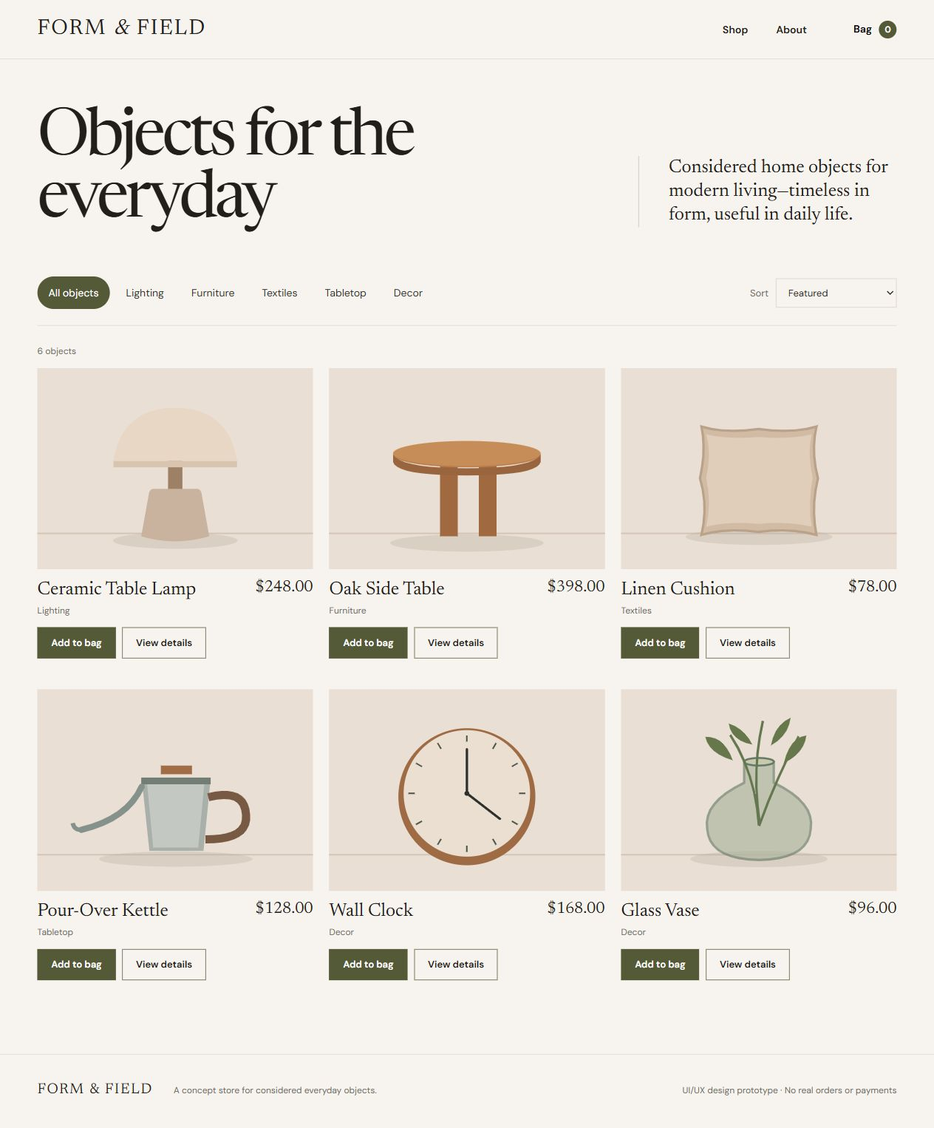
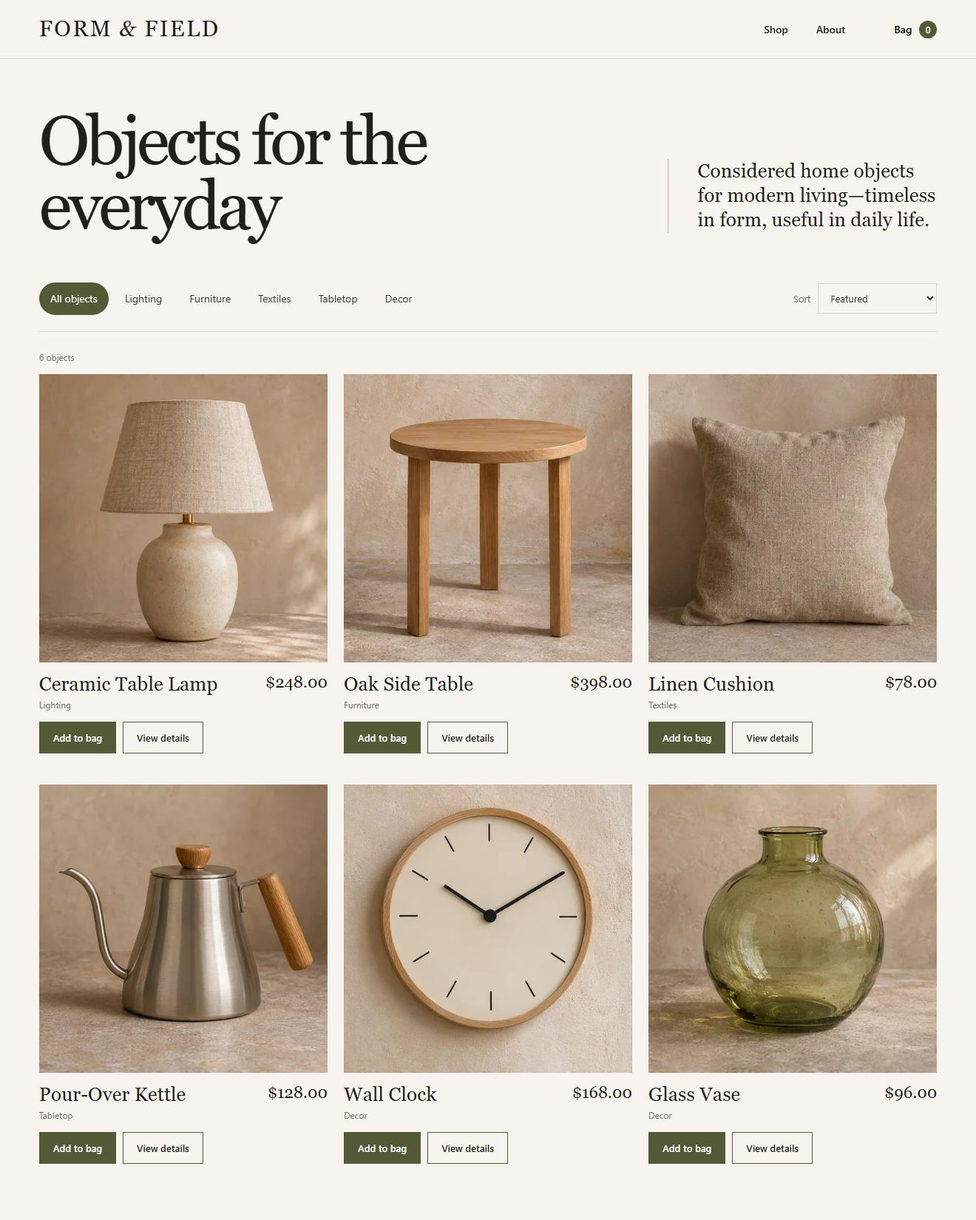
Show photo-style product imagery across the storefront

diff --git a/task-05-ecommerce-app/styles.css b/task-05-ecommerce-app/styles.css
@@ -1,4 +1,4 @@
-:root{font-family:'DM Sans',system-ui,sans-serif;color:#201f1b;background:#f7f4ef;--olive:#555a36;--line:#d8d1c7;--muted:#6c6a63;--serif:'Newsreader',Georgia,serif}*{box-sizing:border-box}html{scroll-behavior:smooth}body{margin:0}button,input,select{font:inherit}button{cursor:pointer}a{color:inherit;text-decoration:none}a:hover{text-decoration:underline;text-underline-offset:4px}button:focus-visible,a:focus-visible,input:focus-visible,select:focus-visible{outline:3px solid #a55e3f;outline-offset:3px}.skip,.sr-only{position:absolute;width:1px;height:1px;overflow:hidden;clip:rect(0 0 0 0)}.skip:focus{clip:auto;width:auto;height:auto;z-index:20;background:#fff;padding:12px}.site-header{height:80px;padding:0 clamp(20px,4vw,72px);border-bottom:1px solid var(--line);display:flex;align-items:center;gap:clamp(24px,5vw,80px)}.brand{font-family:var(--serif);font-size:clamp(22px,2.3vw,33px);letter-spacing:.075em;white-space:nowrap;line-height:1}.brand span{font-style:italic}.site-header nav{display:flex;gap:38px;margin-left:auto}.site-header nav a,.bag-link{font-size:14px;font-weight:600}.bag-link{border:0;background:none;padding:10px 0;white-space:nowrap}.bag-link span{display:inline-grid;place-items:center;background:var(--olive);color:#fff;border-radius:50%;width:24px;height:24px;margin-left:6px;font-size:12px}.container{max-width:1560px;margin:auto;padding:0 clamp(20px,4vw,72px)}.hero{display:grid;grid-template-columns:1.35fr .65fr;align-items:end;gap:7vw;padding-top:66px;padding-bottom:60px}.hero h1{font:400 clamp(52px,7vw,112px)/.95 var(--serif);letter-spacing:-.055em;margin:0;max-width:900px}.hero p{font:400 clamp(19px,2vw,27px)/1.26 var(--serif);margin:0 0 7px;border-left:1px solid #bdb4a8;padding-left:40px;max-width:410px}.toolbar{display:flex;align-items:center;justify-content:space-between;gap:20px;border-bottom:1px solid var(--line);padding-bottom:22px;margin-bottom:26px}.filters{display:flex;gap:7px;flex-wrap:wrap}.filter{border:0;background:transparent;color:#33312b;padding:10px 15px;border-radius:40px;font-size:14px}.filter[aria-pressed=true]{background:var(--olive);color:white}.sort{display:flex;align-items:center;gap:10px;font-size:13px;color:var(--muted);white-space:nowrap}.sort select{background:transparent;border:1px solid var(--line);padding:10px 28px 10px 12px;color:#292820}.results{font-size:12px;color:var(--muted);margin:0 0 15px}.grid{display:grid;grid-template-columns:repeat(3,minmax(0,1fr));gap:42px 22px;padding-bottom:100px}.product-visual{aspect-ratio:1.37;background:#e9e0d6;display:grid;place-items:center;overflow:hidden;position:relative}.product-visual svg{width:100%;height:100%;display:block}.product-meta{display:grid;grid-template-columns:1fr auto;gap:2px 12px;padding-top:14px}.product-meta h2{font:400 clamp(20px,2vw,27px)/1.14 var(--serif);margin:0}.product-meta p{grid-column:1;margin:3px 0 0;color:var(--muted);font-size:12px}.price{font:400 22px var(--serif);white-space:nowrap}.product-actions{display:flex;gap:9px;margin-top:15px}.text-button,.solid-button,.outline-button{border:1px solid var(--olive);padding:12px 18px;font-size:13px;font-weight:600;transition:background .2s,color .2s,transform .2s}.text-button{background:transparent}.solid-button{background:var(--olive);color:white}.outline-button{background:transparent;color:var(--olive)}.solid-button:hover,.outline-button:hover,.text-button:hover{transform:translateY(-2px)}.text-button:hover,.outline-button:hover{background:#e8e8dd}.solid-button:hover{background:#363c23}.breadcrumb{display:flex;gap:10px;color:var(--muted);font-size:13px;margin:30px 0}.breadcrumb a{text-decoration:underline;text-underline-offset:3px}.detail{display:grid;grid-template-columns:minmax(0,1.15fr) minmax(310px,.85fr);gap:clamp(30px,7vw,110px);align-items:center;padding-bottom:100px}.detail .product-visual{aspect-ratio:1}.detail-copy{max-width:500px}.eyeline{font-size:12px;letter-spacing:.15em;text-transform:uppercase;color:var(--muted)}.detail h1,.page-title{font:400 clamp(44px,5.4vw,82px)/1 var(--serif);letter-spacing:-.045em;margin:18px 0}.detail-price{font:400 32px var(--serif);margin:0 0 34px}.detail-description{font-size:16px;line-height:1.7;color:#55534d;margin-bottom:34px}.specs{border-top:1px solid var(--line);border-bottom:1px solid var(--line);padding:16px 0;margin-bottom:30px;font-size:13px;line-height:1.8}.specs strong{display:inline-block;width:85px}.detail .solid-button{width:100%;padding:17px}.minor{font-size:12px;color:var(--muted);line-height:1.6}.page{max-width:1100px;margin:0 auto;padding:32px clamp(20px,4vw,72px) 110px}.page-title{margin:30px 0}.page-intro{color:var(--muted);line-height:1.6}.cart-layout,.checkout-layout{display:grid;grid-template-columns:minmax(0,1fr) 320px;gap:clamp(30px,7vw,100px);align-items:start}.cart-item{display:grid;grid-template-columns:112px 1fr auto;gap:20px;padding:18px 0;border-top:1px solid var(--line)}.cart-item:last-child{border-bottom:1px solid var(--line)}.cart-item .product-visual{width:112px;aspect-ratio:1}.cart-item h2{font:400 23px var(--serif);margin:4px 0}.cart-item p{font-size:12px;color:var(--muted);margin:0 0 15px}.qty{display:inline-flex;border:1px solid var(--line);align-items:center}.qty button{border:0;background:transparent;width:33px;height:33px}.qty span{min-width:25px;text-align:center;font-size:13px}.remove{border:0;background:transparent;text-decoration:underline;color:var(--muted);font-size:12px;margin-left:13px}.summary{border-top:1px solid #24221d;padding-top:18px}.summary h2{font:400 27px var(--serif);margin:0 0 25px}.summary-row{display:flex;justify-content:space-between;gap:20px;margin:14px 0;font-size:13px}.summary-row.total{font-size:17px;font-weight:700;border-top:1px solid var(--line);padding-top:19px;margin-top:20px}.summary .solid-button{width:100%;margin-top:15px;text-align:center;display:block}.empty{padding:60px 0}.empty h2{font:400 34px var(--serif)}.empty .solid-button{display:inline-block}.form-section{border-top:1px solid var(--line);padding-top:21px;margin-top:30px}.form-section h2{font:400 29px var(--serif);margin:0 0 20px}.field-grid{display:grid;grid-template-columns:1fr 1fr;gap:18px}.field{display:flex;flex-direction:column;gap:8px;margin-bottom:18px}.field label{font-size:13px;font-weight:600}.field input,.field select{width:100%;min-height:47px;border:1px solid #bdb7ae;background:#fffdf9;padding:11px 13px;border-radius:0}.field input:focus,.field select:focus{border-color:var(--olive)}.form-error{color:#a13c2f;font-size:12px;margin:7px 0}.notice{background:#ecebe2;border-left:3px solid var(--olive);padding:15px 18px;font-size:13px;line-height:1.6;margin:25px 0}.success{max-width:620px;margin:30px auto 90px;text-align:center;padding:60px 20px}.success .mark{font:400 65px var(--serif);color:var(--olive)}.success h1{font:400 clamp(43px,6vw,73px)/1 var(--serif);margin:20px 0}.success p{line-height:1.7;color:var(--muted)}.success .solid-button{display:inline-block;margin-top:28px}.site-footer{border-top:1px solid var(--line);padding:38px clamp(20px,4vw,72px);display:flex;align-items:baseline;gap:28px;flex-wrap:wrap}.site-footer span{font:400 20px var(--serif);letter-spacing:.08em}.site-footer p,.site-footer small{font-size:12px;color:var(--muted);margin:0}.site-footer small{margin-left:auto}@media(max-width:900px){.hero{grid-template-columns:1fr;gap:23px}.hero p{padding-left:20px}.grid{grid-template-columns:repeat(2,minmax(0,1fr))}.detail{gap:30px}.cart-layout,.checkout-layout{grid-template-columns:1fr}.summary{max-width:520px}}@media(max-width:600px){.site-header{height:68px;gap:12px}.brand{font-size:20px}.site-header nav{gap:15px}.site-header nav a{font-size:12px}.site-header nav a:last-child{display:none}.bag-link{font-size:12px}.hero{padding-top:42px;padding-bottom:38px}.hero h1{font-size:clamp(49px,12vw,72px)}.hero p{font-size:20px}.toolbar{align-items:stretch;flex-direction:column}.filters{flex-wrap:wrap;overflow:visible;margin:0;padding:0;gap:2px}.filter{white-space:nowrap;padding:8px 10px}.sort{justify-content:flex-end}.grid{gap:30px 12px}.product-visual{aspect-ratio:.92}.product-meta{display:block}.product-meta h2{font-size:20px}.price{display:block;margin-top:9px;font-size:19px}.product-actions{flex-direction:column}.product-actions button{padding:10px 6px;font-size:12px}.detail{grid-template-columns:1fr}.detail .product-visual{aspect-ratio:1.1}.detail h1{font-size:50px}.cart-item{grid-template-columns:78px 1fr auto;gap:11px}.cart-item .product-visual{width:78px}.cart-item h2{font-size:19px}.cart-item .price{font-size:17px}.remove{display:block;margin:10px 0}.field-grid{grid-template-columns:1fr}.site-footer{display:block}.site-footer p,.site-footer small{display:block;margin:10px 0}}
+:root{font-family:'DM Sans',system-ui,sans-serif;color:#201f1b;background:#f7f4ef;--olive:#555a36;--line:#d8d1c7;--muted:#6c6a63;--serif:'Newsreader',Georgia,serif}*{box-sizing:border-box}html{scroll-behavior:smooth}body{margin:0}button,input,select{font:inherit}button{cursor:pointer}a{color:inherit;text-decoration:none}a:hover{text-decoration:underline;text-underline-offset:4px}button:focus-visible,a:focus-visible,input:focus-visible,select:focus-visible{outline:3px solid #a55e3f;outline-offset:3px}.skip,.sr-only{position:absolute;width:1px;height:1px;overflow:hidden;clip:rect(0 0 0 0)}.skip:focus{clip:auto;width:auto;height:auto;z-index:20;background:#fff;padding:12px}.site-header{height:80px;padding:0 clamp(20px,4vw,72px);border-bottom:1px solid var(--line);display:flex;align-items:center;gap:clamp(24px,5vw,80px)}.brand{font-family:var(--serif);font-size:clamp(22px,2.3vw,33px);letter-spacing:.075em;white-space:nowrap;line-height:1}.brand span{font-style:italic}.site-header nav{display:flex;gap:38px;margin-left:auto}.site-header nav a,.bag-link{font-size:14px;font-weight:600}.bag-link{border:0;background:none;padding:10px 0;white-space:nowrap}.bag-link span{display:inline-grid;place-items:center;background:var(--olive);color:#fff;border-radius:50%;width:24px;height:24px;margin-left:6px;font-size:12px}.container{max-width:1560px;margin:auto;padding:0 clamp(20px,4vw,72px)}.hero{display:grid;grid-template-columns:1.35fr .65fr;align-items:end;gap:7vw;padding-top:66px;padding-bottom:60px}.hero h1{font:400 clamp(52px,7vw,112px)/.95 var(--serif);letter-spacing:-.055em;margin:0;max-width:900px}.hero p{font:400 clamp(19px,2vw,27px)/1.26 var(--serif);margin:0 0 7px;border-left:1px solid #bdb4a8;padding-left:40px;max-width:410px}.toolbar{display:flex;align-items:center;justify-content:space-between;gap:20px;border-bottom:1px solid var(--line);padding-bottom:22px;margin-bottom:26px}.filters{display:flex;gap:7px;flex-wrap:wrap}.filter{border:0;background:transparent;color:#33312b;padding:10px 15px;border-radius:40px;font-size:14px}.filter[aria-pressed=true]{background:var(--olive);color:white}.sort{display:flex;align-items:center;gap:10px;font-size:13px;color:var(--muted);white-space:nowrap}.sort select{background:transparent;border:1px solid var(--line);padding:10px 28px 10px 12px;color:#292820}.results{font-size:12px;color:var(--muted);margin:0 0 15px}.grid{display:grid;grid-template-columns:repeat(3,minmax(0,1fr));gap:42px 22px;padding-bottom:100px}.product-visual{aspect-ratio:1;background:#e9e0d6;display:grid;place-items:center;overflow:hidden;position:relative}.product-visual img{position:absolute;inset:0;width:100%;height:100%;display:block;object-fit:cover}.product-meta{display:grid;grid-template-columns:1fr auto;gap:2px 12px;padding-top:14px}.product-meta h2{font:400 clamp(20px,2vw,27px)/1.14 var(--serif);margin:0}.product-meta p{grid-column:1;margin:3px 0 0;color:var(--muted);font-size:12px}.price{font:400 22px var(--serif);white-space:nowrap}.product-actions{display:flex;gap:9px;margin-top:15px}.text-button,.solid-button,.outline-button{border:1px solid var(--olive);padding:12px 18px;font-size:13px;font-weight:600;transition:background .2s,color .2s,transform .2s}.text-button{background:transparent}.solid-button{background:var(--olive);color:white}.outline-button{background:transparent;color:var(--olive)}.solid-button:hover,.outline-button:hover,.text-button:hover{transform:translateY(-2px)}.text-button:hover,.outline-button:hover{background:#e8e8dd}.solid-button:hover{background:#363c23}.breadcrumb{display:flex;gap:10px;color:var(--muted);font-size:13px;margin:30px 0}.breadcrumb a{text-decoration:underline;text-underline-offset:3px}.detail{display:grid;grid-template-columns:minmax(0,1.15fr) minmax(310px,.85fr);gap:clamp(30px,7vw,110px);align-items:center;padding-bottom:100px}.detail .product-visual{aspect-ratio:1}.detail-copy{max-width:500px}.eyeline{font-size:12px;letter-spacing:.15em;text-transform:uppercase;color:var(--muted)}.detail h1,.page-title{font:400 clamp(44px,5.4vw,82px)/1 var(--serif);letter-spacing:-.045em;margin:18px 0}.detail-price{font:400 32px var(--serif);margin:0 0 34px}.detail-description{font-size:16px;line-height:1.7;color:#55534d;margin-bottom:34px}.specs{border-top:1px solid var(--line);border-bottom:1px solid var(--line);padding:16px 0;margin-bottom:30px;font-size:13px;line-height:1.8}.specs strong{display:inline-block;width:85px}.detail .solid-button{width:100%;padding:17px}.minor{font-size:12px;color:var(--muted);line-height:1.6}.page{max-width:1100px;margin:0 auto;padding:32px clamp(20px,4vw,72px) 110px}.page-title{margin:30px 0}.page-intro{color:var(--muted);line-height:1.6}.cart-layout,.checkout-layout{display:grid;grid-template-columns:minmax(0,1fr) 320px;gap:clamp(30px,7vw,100px);align-items:start}.cart-item{display:grid;grid-template-columns:112px 1fr auto;gap:20px;padding:18px 0;border-top:1px solid var(--line)}.cart-item:last-child{border-bottom:1px solid var(--line)}.cart-item .product-visual{width:112px;aspect-ratio:1}.cart-item h2{font:400 23px var(--serif);margin:4px 0}.cart-item p{font-size:12px;color:var(--muted);margin:0 0 15px}.qty{display:inline-flex;border:1px solid var(--line);align-items:center}.qty button{border:0;background:transparent;width:33px;height:33px}.qty span{min-width:25px;text-align:center;font-size:13px}.remove{border:0;background:transparent;text-decoration:underline;color:var(--muted);font-size:12px;margin-left:13px}.summary{border-top:1px solid #24221d;padding-top:18px}.summary h2{font:400 27px var(--serif);margin:0 0 25px}.summary-row{display:flex;justify-content:space-between;gap:20px;margin:14px 0;font-size:13px}.summary-row.total{font-size:17px;font-weight:700;border-top:1px solid var(--line);padding-top:19px;margin-top:20px}.summary .solid-button{width:100%;margin-top:15px;text-align:center;display:block}.empty{padding:60px 0}.empty h2{font:400 34px var(--serif)}.empty .solid-button{display:inline-block}.form-section{border-top:1px solid var(--line);padding-top:21px;margin-top:30px}.form-section h2{font:400 29px var(--serif);margin:0 0 20px}.field-grid{display:grid;grid-template-columns:1fr 1fr;gap:18px}.field{display:flex;flex-direction:column;gap:8px;margin-bottom:18px}.field label{font-size:13px;font-weight:600}.field input,.field select{width:100%;min-height:47px;border:1px solid #bdb7ae;background:#fffdf9;padding:11px 13px;border-radius:0}.field input:focus,.field select:focus{border-color:var(--olive)}.form-error{color:#a13c2f;font-size:12px;margin:7px 0}.notice{background:#ecebe2;border-left:3px solid var(--olive);padding:15px 18px;font-size:13px;line-height:1.6;margin:25px 0}.success{max-width:620px;margin:30px auto 90px;text-align:center;padding:60px 20px}.success .mark{font:400 65px var(--serif);color:var(--olive)}.success h1{font:400 clamp(43px,6vw,73px)/1 var(--serif);margin:20px 0}.success p{line-height:1.7;color:var(--muted)}.success .solid-button{display:inline-block;margin-top:28px}.site-footer{border-top:1px solid var(--line);padding:38px clamp(20px,4vw,72px);display:flex;align-items:baseline;gap:28px;flex-wrap:wrap}.site-footer span{font:400 20px var(--serif);letter-spacing:.08em}.site-footer p,.site-footer small{font-size:12px;color:var(--muted);margin:0}.site-footer small{margin-left:auto}@media(max-width:900px){.hero{grid-template-columns:1fr;gap:23px}.hero p{padding-left:20px}.grid{grid-template-columns:repeat(2,minmax(0,1fr))}.detail{gap:30px}.cart-layout,.checkout-layout{grid-template-columns:1fr}.summary{max-width:520px}}@media(max-width:600px){.site-header{height:68px;gap:12px}.brand{font-size:20px}.site-header nav{gap:15px}.site-header nav a{font-size:12px}.site-header nav a:last-child{display:none}.bag-link{font-size:12px}.hero{padding-top:42px;padding-bottom:38px}.hero h1{font-size:clamp(49px,12vw,72px)}.hero p{font-size:20px}.toolbar{align-items:stretch;flex-direction:column}.filters{flex-wrap:wrap;overflow:visible;margin:0;padding:0;gap:2px}.filter{white-space:nowrap;padding:8px 10px}.sort{justify-content:flex-end}.grid{gap:30px 12px}.product-meta{display:block}.product-meta h2{font-size:20px}.price{display:block;margin-top:9px;font-size:19px}.product-actions{flex-direction:column}.product-actions button{padding:10px 6px;font-size:12px}.detail{grid-template-columns:1fr}.detail h1{font-size:50px}.cart-item{grid-template-columns:78px 1fr auto;gap:11px}.cart-item .product-visual{width:78px}.cart-item h2{font-size:19px}.cart-item .price{font-size:17px}.remove{display:block;margin:10px 0}.field-grid{grid-template-columns:1fr}.site-footer{display:block}.site-footer p,.site-footer small{display:block;margin:10px 0}}
 
 
 

diff --git a/task-05-ecommerce-app/app.js b/task-05-ecommerce-app/app.js
@@ -1,23 +1,23 @@
 const products = [
-  {id:'lamp',name:'Ceramic Table Lamp',category:'Lighting',price:248,material:'Stoneware, linen',size:'32 × 42 cm',description:'A quietly sculptural lamp with a softly diffused glow. Its rounded ceramic silhouette brings warmth to a bedside or reading corner.'},
-  {id:'table',name:'Oak Side Table',category:'Furniture',price:398,material:'Solid oak',size:'46 × 46 × 48 cm',description:'A compact, balanced form in warm oak. The generous circular top makes room for a book, a cup, and the small things you reach for daily.'},
-  {id:'cushion',name:'Linen Cushion',category:'Textiles',price:78,material:'Linen, cotton fill',size:'50 × 50 cm',description:'Natural linen with a relaxed texture and a soft, supportive fill. An easy layer for a sofa, chair, or bed.'},
-  {id:'kettle',name:'Pour-Over Kettle',category:'Tabletop',price:128,material:'Stainless steel, oak',size:'1 litre',description:'A precise gooseneck spout and considered handle make the morning pour feel a little more deliberate.'},
-  {id:'clock',name:'Wall Clock',category:'Decor',price:168,material:'Oak, aluminium',size:'Ø 32 cm',description:'An understated clock with a light oak frame and clear, minimal face. Designed to sit comfortably in any room.'},
-  {id:'vase',name:'Glass Vase',category:'Decor',price:96,material:'Recycled glass',size:'22 × 25 cm',description:'A rounded glass vessel with a soft olive tint. Equally at home with a few branches or left beautifully empty.'}
+  {id:'lamp',imageAlt:'Rounded ivory ceramic lamp with an unbleached linen shade',name:'Ceramic Table Lamp',category:'Lighting',price:248,material:'Stoneware, linen',size:'32 × 42 cm',description:'A quietly sculptural lamp with a softly diffused glow. Its rounded ceramic silhouette brings warmth to a bedside or reading corner.'},
+  {id:'table',imageAlt:'Round light oak side table with a visible wood grain',name:'Oak Side Table',category:'Furniture',price:398,material:'Solid oak',size:'46 × 46 × 48 cm',description:'A compact, balanced form in warm oak. The generous circular top makes room for a book, a cup, and the small things you reach for daily.'},
+  {id:'cushion',imageAlt:'Sand colored linen cushion with a soft woven texture',name:'Linen Cushion',category:'Textiles',price:78,material:'Linen, cotton fill',size:'50 × 50 cm',description:'Natural linen with a relaxed texture and a soft, supportive fill. An easy layer for a sofa, chair, or bed.'},
+  {id:'kettle',imageAlt:'Brushed stainless steel gooseneck kettle with an oak handle',name:'Pour-Over Kettle',category:'Tabletop',price:128,material:'Stainless steel, oak',size:'1 litre',description:'A precise gooseneck spout and considered handle make the morning pour feel a little more deliberate.'},
+  {id:'clock',imageAlt:'Round light oak wall clock with a warm white dial',name:'Wall Clock',category:'Decor',price:168,material:'Oak, aluminium',size:'Ø 32 cm',description:'An understated clock with a light oak frame and clear, minimal face. Designed to sit comfortably in any room.'},
+  {id:'vase',imageAlt:'Rounded translucent olive green glass vase with a narrow neck',name:'Glass Vase',category:'Decor',price:96,material:'Recycled glass',size:'22 × 25 cm',description:'A rounded glass vessel with a soft olive tint. Equally at home with a few branches or left beautifully empty.'}
 ];
 const categories=['All objects','Lighting','Furniture','Textiles','Tabletop','Decor'];
 const main=document.querySelector('#main');
 const money=n=>`$${n.toFixed(2)}`;
-const art={
-lamp:`<ellipse cx="300" cy="360" rx="130" ry="17" fill="#b5a99c" opacity=".3"/><path d="M285 192h30v65h-30z" fill="#9b8064"/><path d="M255 252q-8 0-10 10l-16 89q70 21 142 0l-16-89q-2-10-10-10z" fill="#c7b39d"/><path d="M171 194q18-111 129-111t129 111z" fill="#e7d7c4"/><path d="M171 194h258v13H171z" fill="#d6c4ae"/>`,
-table:`<ellipse cx="300" cy="365" rx="160" ry="18" fill="#b5a99c" opacity=".3"/><path d="M244 182h37v169h-37zM325 182h37v169h-37z" fill="#9d683c"/><ellipse cx="300" cy="181" rx="154" ry="26" fill="#b78049"/><path d="M146 181v15q7 28 154 28t154-28v-15q-19 28-154 28T146 181" fill="#95643c"/><ellipse cx="300" cy="178" rx="154" ry="26" fill="#c28c53"/>`,
-cushion:`<ellipse cx="300" cy="352" rx="153" ry="17" fill="#b5a99c" opacity=".3"/><path d="M180 122q48 15 119 5 71 10 121-5-12 48 3 108-15 64-3 118-55-15-121-6-69-9-119 6 14-58-3-118 13-60 3-108z" fill="#d0bba3" stroke="#b8a187" stroke-width="5"/><path d="M190 138q41 11 109 6 70 5 111-6-9 40 2 91-10 54-2 102-47-12-111-6-65-6-109 6 11-49 0-102 11-51 0-91z" fill="#dfceb9"/>`,
-kettle:`<ellipse cx="301" cy="354" rx="160" ry="16" fill="#b5a99c" opacity=".3"/><path d="M230 186h144l-15 151H246z" fill="#aab0aa"/><path d="M241 194h120l-13 136h-94z" fill="#c4c9c2"/><path d="M229 184h145v14H229z" fill="#737d76"/><path d="M270 177h65v-18h-65z" fill="#9d6c43"/><path d="M369 225q76-19 79 37 4 52-85 51" fill="none" stroke="#765a42" stroke-width="17"/><path d="M230 203q-30 67-126 90" fill="none" stroke="#86918b" stroke-width="13" stroke-linecap="round"/><path d="M104 293q-15 1-18-14" fill="none" stroke="#86918b" stroke-width="9"/>`,
-clock:`<ellipse cx="300" cy="224" rx="143" ry="143" fill="#9b6a41"/><circle cx="300" cy="217" r="132" fill="#e9dfd0"/><circle cx="300" cy="217" r="5" fill="#292c29"/><path d="M300 217V125M300 217l69 53" fill="none" stroke="#2e302d" stroke-width="5" stroke-linecap="round"/><g stroke="#4d5149" stroke-width="3"><path d="M300 96v13M300 326v13M178 217h13M409 217h13M239 112l7 12M354 312l7 12M194 154l12 7M394 275l12 7M361 112l-7 12M246 312l-7 12M406 154l-12 7M206 275l-12 7"/></g>`,
-vase:`<ellipse cx="300" cy="354" rx="143" ry="17" fill="#b5a99c" opacity=".3"/><path d="M269 151v44q-86 41-77 96 4 63 108 65 104-2 108-65 9-55-77-96v-44z" fill="#aab49b" opacity=".65" stroke="#687b66" stroke-width="5"/><ellipse cx="300" cy="151" rx="31" ry="8" fill="#c9c9ab" stroke="#687b66" stroke-width="4"/><path d="M300 284q-8-110-60-189M300 285q38-105 83-187M301 278q-16-112 7-212" fill="none" stroke="#67774d" stroke-width="5"/><path d="M245 148q-50-15-57-49 39-2 57 49M352 154q43-22 47-58-35 5-47 58M286 115q-15-32-49-44 5 36 49 44M325 117q8-43 41-58-4 37-41 58" fill="#687749"/>`
+const visual = (product, context) => {
+  const image = `images/${product.id}`;
+  const size = {
+    catalog: '(max-width: 900px) 45vw, 30vw',
+    detail: '(max-width: 600px) 92vw, 52vw',
+    bag: '(max-width: 600px) 78px, 112px',
+  }[context];
+  return `<div class="product-visual"><img src="${image}.webp" srcset="${image}-small.webp 240w, ${image}.webp 480w" sizes="${size}" width="480" height="480" alt="${product.imageAlt}"${context === 'catalog' ? ' loading="lazy"' : ''} decoding="async"></div>`;
 };
-const visual=p=>`<div class="product-visual" role="img" aria-label="Illustration of ${p.name}"><svg viewBox="0 0 600 420" aria-hidden="true" preserveAspectRatio="xMidYMid slice"><rect width="600" height="420" fill="#e9dfd3"/><path d="M0 345h600" stroke="#d2c4b5" stroke-width="3"/>${art[p.id]}</svg></div>`;
 const CART_KEY = 'form-field-cart-v1';
 const escapeHtml = value => String(value ?? '').replace(/[&<>"']/g, char =>
   ({'&':'&amp;', '<':'&lt;', '>':'&gt;', '"':'&quot;', "'":'&#39;'})[char]);
@@ -63,7 +63,7 @@ function renderShop() {
     <div class="toolbar"><div class="filters" role="group" aria-label="Filter products">${categories.map(category => `<button type="button" class="filter" data-filter="${category}" aria-pressed="${filter === category}">${category}</button>`).join('')}</div>
     <label class="sort">Sort <select id="sort"><option value="featured">Featured</option><option value="price-low">Price: low to high</option><option value="price-high">Price: high to low</option></select></label></div>
     <p class="results">${shown.length} objects</p><section class="grid" aria-label="Products">${shown.map(product => `<article>
-      <a class="product-image-link" href="#/product/${product.id}" aria-label="View ${product.name}">${visual(product)}</a>
+      <a class="product-image-link" href="#/product/${product.id}" aria-label="View ${product.name}">${visual(product, 'catalog')}</a>
       <div class="product-meta"><h2><a href="#/product/${product.id}">${product.name}</a></h2><span class="price">${money(product.price)}</span><p>${product.category}</p></div>
       <div class="product-actions"><button class="solid-button" data-add="${product.id}">Add to bag</button><a class="text-button" href="#/product/${product.id}">View details</a></div></article>`).join('')}</section></div>`;
   document.querySelector('#sort').value = sort;
@@ -72,7 +72,7 @@ function renderDetail(id) {
   const product = products.find(item => item.id === id);
   if (!product) return renderNotFound();
   main.innerHTML = `<div class="container"><div class="breadcrumb"><a href="#/">Shop</a><span>/</span>${product.category}</div>
-    <article class="detail">${visual(product)}<div class="detail-copy"><span class="eyeline">${product.category} / Form & Field</span>
+    <article class="detail">${visual(product, 'detail')}<div class="detail-copy"><span class="eyeline">${product.category} / Form & Field</span>
     <h1>${product.name}</h1><p class="detail-price">${money(product.price)}</p><p class="detail-description">${product.description}</p>
     <div class="specs"><div><strong>Material</strong>${product.material}</div><div><strong>Size</strong>${product.size}</div></div>
     <button class="solid-button" data-add="${product.id}">Add to bag — ${money(product.price)}</button>
@@ -88,7 +88,7 @@ function summary(checkout = false) {
 function renderCart() {
   const items = lines();
   main.innerHTML = `<div class="page"><div class="breadcrumb"><a href="#/">Shop</a><span>/</span>Bag</div>
-    <h1 class="page-title">Your bag <span class="bag-total">(${count()})</span></h1>${items.length ? `<div class="cart-layout"><div>${items.map(product => `<article class="cart-item">${visual(product)}
+    <h1 class="page-title">Your bag <span class="bag-total">(${count()})</span></h1>${items.length ? `<div class="cart-layout"><div>${items.map(product => `<article class="cart-item">${visual(product, 'bag')}
       <div><h2><a href="#/product/${product.id}">${product.name}</a></h2><p>${product.material}</p>
       <div class="qty" role="group" aria-label="Quantity for ${product.name}"><button aria-label="Decrease ${product.name} quantity" data-qty="${product.id}" data-delta="-1">−</button><span>${product.qty}</span><button aria-label="Increase ${product.name} quantity" data-qty="${product.id}" data-delta="1" ${product.qty === 99 ? 'disabled' : ''}>+</button></div>
       <button class="remove" data-remove="${product.id}" aria-label="Remove ${product.name}">Remove</button></div><span class="price">${money(product.price * product.qty)}</span></article>`).join('')}</div>${summary()}</div>`

diff --git a/task-05-ecommerce-app/EVALUATION.md b/task-05-ecommerce-app/EVALUATION.md
@@ -12,7 +12,7 @@ Reference: the full 13-page `UI_UX DEVELOPMENT TASK LIST(1).pdf`; Task 5 workflo
 | Code Quality | Original dependency-free source, validated stored quantities, centralized totals and in-memory checkout draft; syntax check passed | Reviewed within prototype scope |
 | Website Responsiveness | Desktop and direct 390 × 844 px viewport checks; earlier 337 px CSS-width zoom checks | Checked catalog and checkout without horizontal overflow; physical devices untested |
 | User Interface Design | Consistent type, clear field labels, visible error borders, focus recovery, shipping policy and 44 px quantity targets | Internally reviewed; customer comprehension unmeasured |
-| Creativity & Implementation | Original vector catalog and coherent fictional homeware identity with working interaction states | Delivered; no conversion or uniqueness claims |
+| Creativity & Implementation | Consistent photo-style catalog and coherent fictional homeware identity with working interaction states | Delivered; no conversion or uniqueness claims |
 | Professional Presentation | README, DESIGN.md, editable SVG, actual screenshots and honest study status | Delivered |
 | Project Functionality | Discovery → detail → bag → checkout → sample confirmation and recovery | Passed recorded internal checks |
 
@@ -24,7 +24,7 @@ Live URL: https://auspify-task-05.vercel.app/. Chromium-based browser using the 
 | --- | --- | --- |
 | Page identity, meaningful content and no framework error overlay | Correct catalog and interactive screens rendered | Pass |
 | Filter/sort | Decor sorted ascending starts with Glass Vase | Pass |
-| Image navigation | Product illustration opens the matching detail | Pass |
+| Image navigation | Product image opens the matching detail | Pass |
 | Quantity/focus | Quantity and summary update; focus stays on increase | Pass |
 | Totals/shipping | Two vases: $192 + $18 = $210; earlier four-vase check made shipping complimentary at $384 | Pass |
 | Empty checkout | Required-field errors appear and focus moves to email | Pass |
@@ -73,3 +73,7 @@ The screenshots below were recaptured from the revised prototype. Earlier eviden
 - [05-checkout-mobile.jpg](screenshots/05-checkout-mobile.jpg)
 - [05-checkout.jpg](screenshots/05-checkout.jpg)
 - [05-validation.jpg](screenshots/05-validation.jpg)
+
+## Product imagery refresh · 22 November 2026
+
+The six fictional products use generated photo-style imagery with small and full-size WebP sources. New captures show the [desktop catalog](screenshots/05-catalog.jpg), [phone catalog](screenshots/05-catalog-mobile.jpg), [product detail](screenshots/05-detail.jpg) and [bag](screenshots/05-bag.jpg). Browser checks verified image loading, the catalog photo opening the correct product, the bag thumbnail and $210 sample total, and completion of the sample checkout on the phone layout. Participant testing is still pending.

diff --git a/task-05-ecommerce-app/DESIGN.md b/task-05-ecommerce-app/DESIGN.md
@@ -19,7 +19,7 @@ Design a small e-commerce app whose customer can understand an object and its to
 ## Design decisions
 
 - Serif titles and restrained olive actions suit a homeware collection; the main task remains visible without gradients or decorative dashboard widgets.
-- Original vector illustrations keep a consistent catalog. They are illustrations, not product photography or evidence of real stock.
+- Generated photo-style product images use a consistent warm studio palette, with visible material texture and complete objects in square crops. They depict fictional catalog items.
 - Shipping is disclosed on the detail and summary screens. A $300 subtotal receives complimentary shipping; otherwise the illustrative charge is $18.
 - Filtering, sorting and quantity changes retain focus after rendering. Quantity controls have a 44 px minimum target and announce the result.
 - Required fields reject whitespace-only text. Error borders identify the affected controls and the message directs attention to the first field needing correction.
@@ -32,7 +32,7 @@ Design a small e-commerce app whose customer can understand an object and its to
 | --- | --- | --- |
 | Bag → checkout discarded entered values | Keep an in-memory draft across navigation | Enter sample email and address, go back and return |
 | Quantity change left focus on the body | Restore a relevant quantity control or heading | Keyboard focus after increase and after removal |
-| Product artwork was not a navigation target | Link the catalog illustration to detail | Open a product through the illustration |
+| Product artwork was not a navigation target | Link the catalog photo to detail | Open a product through the photo |
 | Small quantity controls and hidden delivery threshold | 44 px targets and explicit shipping rule | Inspect bag and detail at desktop and narrow sizes |
 | Required wireframes and screenshot evidence missing | Add source board and current live captures | Open wireframes.svg and screenshots/ |
 

diff --git a/task-05-ecommerce-app/README.md b/task-05-ecommerce-app/README.md
@@ -13,7 +13,7 @@ Reference: page 10 of `UI_UX DEVELOPMENT TASK LIST(1).pdf`; shared evaluation cr
 | Required workflow | Evidence | Status |
 | --- | --- | --- |
 | User journeys and wireframes | DESIGN.md journey/recovery map; editable original wireframes.svg | Delivered |
-| Listing and detail screens | Six products; original vector illustrations, filters, sorting and specifications | Delivered |
+| Listing and detail screens | Six products; photo-style product imagery, filters, sorting and specifications | Delivered |
 | Cart and checkout | Quantity/removal, totals, shipping rule, validation and explicit sample confirmation | Delivered |
 | Interactive prototypes | Original HTML, CSS and JavaScript, deployed on Vercel | Delivered |
 | Conduct usability testing | Ready-to-run USABILITY-TEST.md and empty participant-results.csv | **Actual sessions pending** |
@@ -39,3 +39,5 @@ npx --yes serve task-05-ecommerce-app -l 8765
 Open `http://localhost:8765`. From this folder, serve `.` instead. There is no build step or project dependency installation. This avoids relying on the Windows `py` launcher.
 
 Source, editable SVG wireframes and real completed-screen screenshots are included for submission. The brief discusses design tools but does not require an exclusive export format. EVALUATION.md maps all seven criteria to actual evidence and remaining gaps; no inaccessible Figma file is claimed as verified.
+
+Catalog images are generated concept imagery, stored locally as WebP. Each product has a full image and a smaller thumbnail for narrow layouts and the bag.
